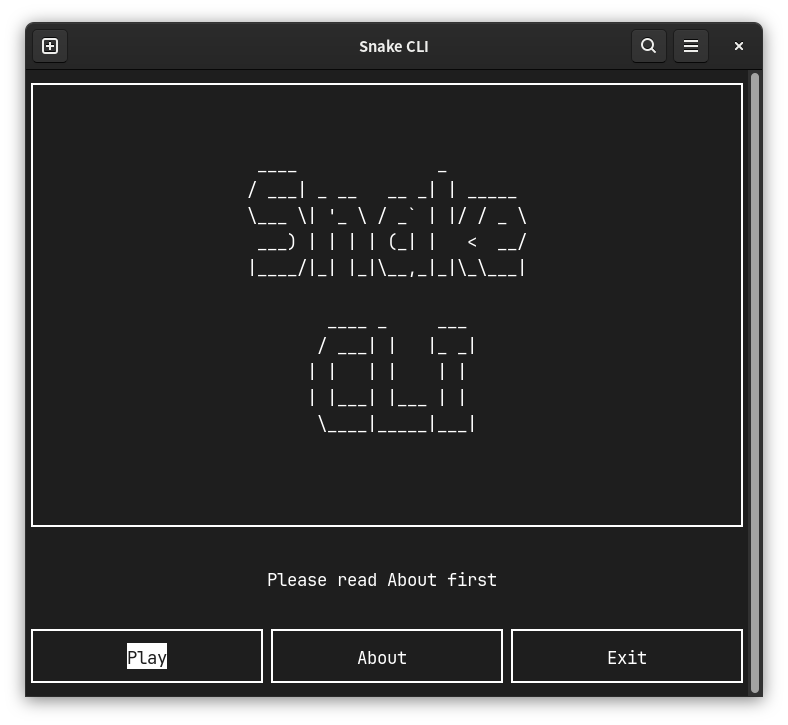
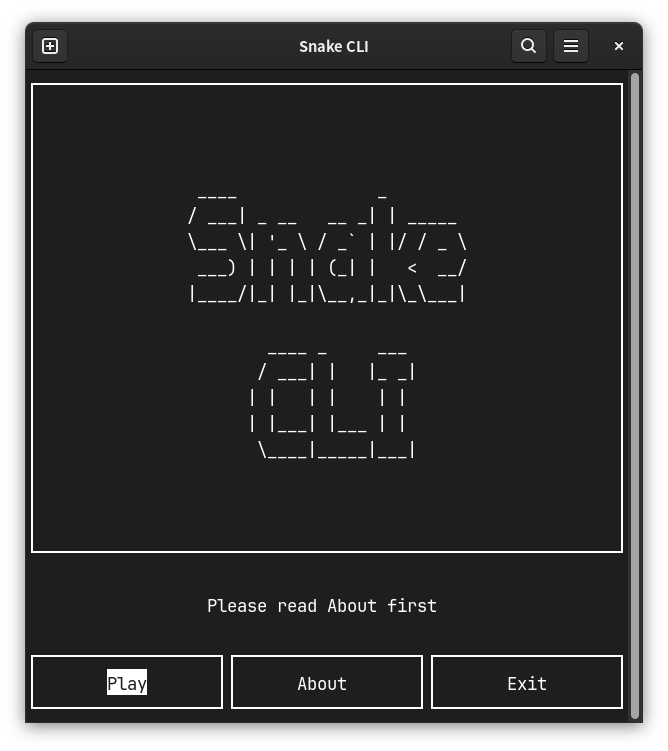
update README

diff --git a/README.md b/README.md
@@ -8,11 +8,26 @@
 
 ![游戏开始界面 ](./Pictures/game_start.png)
 
-![死亡](./Pictures/game_is_over.png)
+![游戏结束界面 ](./Pictures/game_over.png)
+
+## 特性
+
+- 色块渲染：蛇与苹果为实心色块，使用终端调色板语义色，自动适配终端主题
+- 正方形格子：双列渲染，横竖方向速度与粗细一致
+- 终端环境检查：启动时检查颜色支持与终端尺寸，不满足时给出提示并等待调整
+- `-C` / `--check` 参数：实时检查终端尺寸，帮助你找到最佳宽度
+
+## 操作
+
+- 方向键 / WASD：移动蛇；左右方向键切换菜单选项
+- Enter：确认
+- ESC：暂停游戏 / 退出 About 页
 
 ## 构建与运行
 
-依赖：ncurses、CMake ≥ 4.3、支持 C23 的编译器。终端至少 20×35。
+依赖：ncurses、CMake ≥ 4.3、支持 C23 的编译器。
+
+> 终端需支持颜色，至少 35×23（宽×高），且列数为偶数；不满足时游戏会在启动时提示并等待调整。注意：Linux TTY 等无法调整大小的终端，若列数为奇数则无法游玩。
 
 ```sh
 cmake -B build
@@ -27,6 +42,10 @@ cmake --build build
 本项目引入了看门狗来解决终端缩放问题。SIGWINCH信号通过 `siglongjmp` 使子进程非 0 退出，游戏被看门狗整体重启，变相达到自适应效果，免去了繁琐的轮询判断。
 
 注意：siglongjmp在本项目中仅用于让子进程endwin交还终端后exit，请勿随意更改
+
+### 环境门
+
+进程启动时检查终端环境（颜色支持、最小尺寸 35×23、列数为偶数），不满足时显示原因并阻塞等待：调整终端大小会触发看门狗重启并自动重新检查，按 q 退出。颜色与尺寸是全局前提；宽度奇偶是双列渲染的前提。
 
 ### 状态机
 
@@ -58,6 +77,12 @@ cmake --build build
 - 不变量 `CAP`为蛇最大长度，胜利长度`CAP - 1`防止越界
 - 渲染增量式：每帧只画新头、擦旧尾，蛇身靠屏幕残影绘制
 
+### 渲染：逻辑坐标与色块
+
+- 终端格子高大于宽，直接用字符画会导致纵向断裂、速度不均。本项目以带背景色的空格作为实心色块，横竖无缝。
+- 一个逻辑格 = 两个物理列，使格子接近正方形，横竖速度与粗细一致。游戏逻辑全部使用逻辑坐标，`draw_cell()` 是唯一的逻辑→物理映射点。
+- 色块与坐标映射都要求终端宽度为偶数，由环境门在启动时保证。
+
 ### 苹果生成：枚举法
 
 将地图所有空格集合为新数组，通过`random() % n` 抽取达到随机生成目的。无空格则返回 `{ERR, ERR}` 变相告知胜利。
@@ -65,12 +90,12 @@ cmake --build build
 ## 文件结构
 
 ```
-main.c    看门狗进程（fork / waitpid / 终端修复）
-game.c    ncurses 初始化、SIGWINCH 处理、顶层状态机
-menu.c    主菜单（Play / About / Exit）
-play.c    游戏本体（内部状态机、移动、苹果、渲染）
-utils.c   通用绘制与输入辅助
-game.h    共享数据结构（Position / SnakeCLI / GameState）
+main.c           看门狗进程（fork / waitpid / 终端修复）
+game.c           ncurses 初始化、环境门、SIGWINCH 处理、顶层状态机
+menu.c           主菜单（Play / About / Exit，含 Logo 与 About 绘制）
+play.c           游戏本体（内部状态机、移动、苹果、渲染与输入）
+utils.c          通用辅助（命令行参数、居中打印、选项窗）
+game.h / utils.h 共享数据结构与声明
 ```
 
 ---
